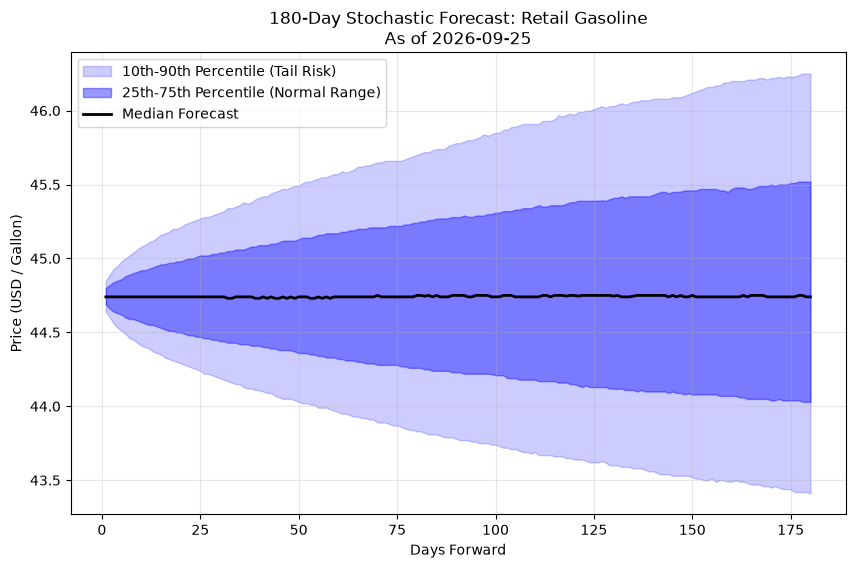
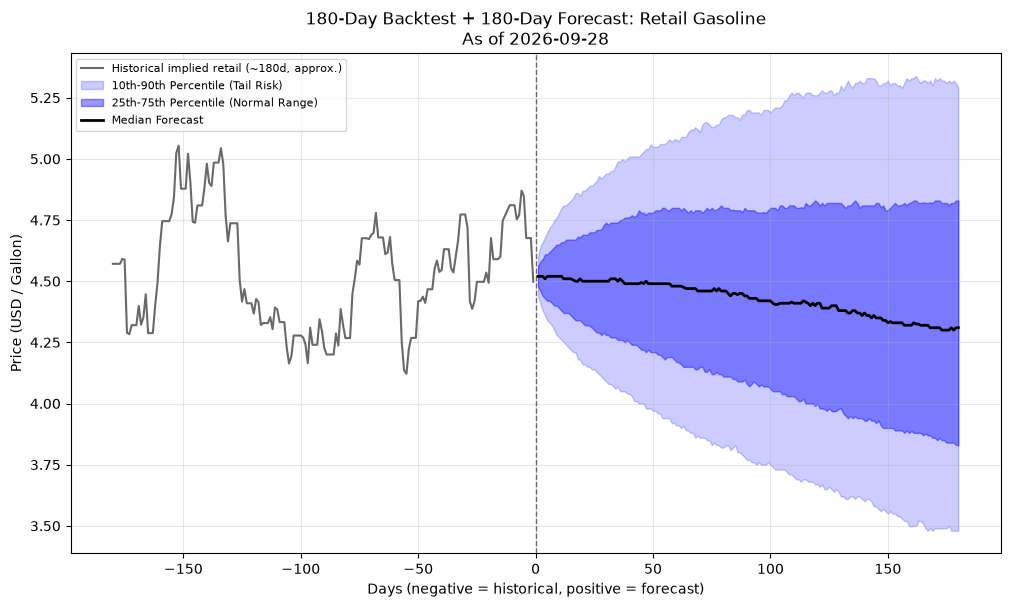
Add historical backtest overlay and scenario line styling
report_gen.py now overlays 180 days of historical implied retail price
(reconstructed from RB=F/HO=F futures) before the forecast, giving a
continuous 360-day view. scenario_report.py alternates solid/dotted
lines per scenario so adjacent colors in the legend stay distinguishable.
Regenerated tracked outputs from a fresh calibrate.py run.

diff --git a/report_gen.py b/report_gen.py
@@ -1,32 +1,100 @@
+import json
 import os
 from datetime import date
 
 import matplotlib.pyplot as plt
 import numpy as np
 import pandas as pd
+import yfinance as yf
+
+from calibrate import _get_price_frame
+
+PARAMS_FILE = "params_macro.json"
+BACKTEST_DAYS = 180
+
+# Mirrors simulate.go's tax/distribution constants - keep in sync if those change.
+TAX_GAS = 0.57
+DIST_GAS = 0.65
+TAX_DIESEL = 0.65
+DIST_DIESEL = 0.85
 
 
-def generate_chart(commodity, filename, color_base):
+def load_freight_assumptions():
+    if not os.path.exists(PARAMS_FILE):
+        return None
+    with open(PARAMS_FILE) as f:
+        params = json.load(f)
+    return params.get("freight_0", 0.0), params.get("shipping_cost_0", 0.0)
+
+
+def fetch_historical_implied_retail(days=BACKTEST_DAYS):
+    """Reconstructs an approximate historical retail price from RBOB gasoline
+    and heating-oil futures closes (which already price in crude + crack
+    spread), holding today's freight/shipping assumptions constant since no
+    historical freight series is available. Returns None on any failure -
+    missing params, no internet, empty data - so the forecast chart can still
+    render without the backtest overlay.
+    """
+    freight_shipping = load_freight_assumptions()
+    if freight_shipping is None:
+        print("Skipping historical backtest overlay: params_macro.json not found.")
+        return None
+    freight_0, shipping_cost_0 = freight_shipping
+    try:
+        raw = yf.download(["RB=F", "HO=F"], period=f"{days + 30}d", progress=False)
+        if raw.empty:
+            raise ValueError("no market data returned")
+        data = _get_price_frame(raw).dropna()
+        if data.empty:
+            raise ValueError("no usable rows after cleaning")
+        full_range = pd.date_range(end=data.index.max(), periods=days, freq="D")
+        data = data.reindex(data.index.union(full_range)).sort_index().ffill().reindex(full_range)
+        if data.isna().any().any():
+            raise ValueError("insufficient history to cover the requested backtest window")
+        freight_gal = freight_0 / 42.0
+        shipping_gal = shipping_cost_0 / 42.0
+        gas = (data["RB=F"] + freight_gal + shipping_gal + TAX_GAS + DIST_GAS).to_numpy()
+        diesel = (data["HO=F"] + freight_gal + shipping_gal + TAX_DIESEL + DIST_DIESEL).to_numpy()
+        return gas, diesel
+    except Exception as exc:
+        print(f"Skipping historical backtest overlay ({exc}).")
+        return None
+
+
+def generate_chart(commodity, filename, color_base, historical):
     print(f"Generating chart for {commodity}...")
     as_of = date.today().strftime("%Y-%m-%d")
     df = pd.read_csv(filename, header=None).astype(float)
 
-    days = np.arange(1, df.shape[1] + 1)
+    forward_days = np.arange(1, df.shape[1] + 1)
     p10 = df.quantile(0.10, axis=0)
     p25 = df.quantile(0.25, axis=0)
     p50 = df.quantile(0.50, axis=0)
     p75 = df.quantile(0.75, axis=0)
     p90 = df.quantile(0.90, axis=0)
 
-    fig, ax = plt.subplots(figsize=(10, 6))
-    ax.fill_between(days, p10, p90, color=color_base, alpha=0.2, label="10th-90th Percentile (Tail Risk)")
-    ax.fill_between(days, p25, p75, color=color_base, alpha=0.4, label="25th-75th Percentile (Normal Range)")
-    ax.plot(days, p50, color="black", linewidth=2, label="Median Forecast")
+    fig, ax = plt.subplots(figsize=(12, 6.5))
 
-    ax.set_title(f"180-Day Stochastic Forecast: Retail {commodity}\nAs of {as_of}")
-    ax.set_xlabel("Days Forward")
+    if historical is not None:
+        hist_days = np.arange(-len(historical), 0)
+        ax.plot(hist_days, historical, color="dimgray", linewidth=1.5,
+                 label=f"Historical implied retail (~{len(historical)}d, approx.)")
+        ax.axvline(0, color="dimgray", linewidth=1, linestyle="--")
+
+    ax.fill_between(forward_days, p10, p90, color=color_base, alpha=0.2, label="10th-90th Percentile (Tail Risk)")
+    ax.fill_between(forward_days, p25, p75, color=color_base, alpha=0.4, label="25th-75th Percentile (Normal Range)")
+    ax.plot(forward_days, p50, color="black", linewidth=2, label="Median Forecast")
+
+    if historical is not None:
+        title = f"{BACKTEST_DAYS}-Day Backtest + 180-Day Forecast: Retail {commodity}"
+        xlabel = "Days (negative = historical, positive = forecast)"
+    else:
+        title = f"180-Day Stochastic Forecast: Retail {commodity}"
+        xlabel = "Days Forward"
+    ax.set_title(f"{title}\nAs of {as_of}")
+    ax.set_xlabel(xlabel)
     ax.set_ylabel("Price (USD / Gallon)")
-    ax.legend(loc="upper left")
+    ax.legend(loc="upper left", fontsize=8)
     ax.grid(True, alpha=0.3)
 
     out_file = f"{commodity.lower()}_forecast.png"
@@ -38,5 +106,7 @@ def generate_chart(commodity, filename, color_base):
 if __name__ == "__main__":
     gas_file = "results_macro_gas.csv" if os.path.exists("results_macro_gas.csv") else "results_gas.csv"
     diesel_file = "results_macro_diesel.csv" if os.path.exists("results_macro_diesel.csv") else "results_diesel.csv"
-    generate_chart("Gasoline", gas_file, "blue")
-    generate_chart("Diesel", diesel_file, "red")
+    historical = fetch_historical_implied_retail()
+    hist_gas, hist_diesel = historical if historical is not None else (None, None)
+    generate_chart("Gasoline", gas_file, "blue", hist_gas)
+    generate_chart("Diesel", diesel_file, "red", hist_diesel)

diff --git a/scenario_report.py b/scenario_report.py
@@ -225,7 +225,8 @@ def plot_scenario_paths(scenarios, bands_by_id, commodity, out_file):
     for i, scenario in enumerate(scenarios):
         bands = bands_by_id[scenario["id"]]
         color = PALETTE[i % len(PALETTE)]
-        ax.plot(days, bands["p50"], color=color, linewidth=2, label=scenario["label"])
+        linestyle = "-" if i % 2 == 0 else ":"  # alternate solid/dotted so adjacent colors stay distinguishable
+        ax.plot(days, bands["p50"], color=color, linewidth=2, linestyle=linestyle, label=scenario["label"])
 
     ax.set_title(f"180-Day Scenario Outlook: Retail {commodity}", color=INK,
                  fontsize=14, fontweight="bold", loc="left")

diff --git a/oil_market_outlook.md b/oil_market_outlook.md
@@ -1,35 +1,35 @@
 # Oil & Fuels Market Outlook - Scenario Analysis
-*As of 2026-09-25 | 2,000-path Monte Carlo, 180-day horizon*
+*As of 2026-09-28 | 2,000-path Monte Carlo, 180-day horizon*
 
 **Compare against today's actual retail price:** [AAA National Average Gas Prices](https://gasprices.aaa.com/). This model projects a *medium-term path* for the crude-to-pump price chain, not today's station price, so some gap is expected — but if the gap looks large, check the "Calibration inputs" line under Methodology first: the model is only as current as the last `calibrate.py` run.
 
 ## Executive Summary
 
-Under current calibrated conditions, the model's base-case median retail gasoline price reaches **$3.50/gal** 180 days out (10th-90th percentile range $2.80-$4.28). Across the six stress scenarios modeled below, the most bullish case is **Combined Shock: Hormuz Closure + Saudi Cut**, which pushes the day-180 median to $4.74/gal (+35.4% vs. base), while **Iran Sanctions Lifted** offers the most relief, at $3.26/gal (-6.9% vs. base).
+Under current calibrated conditions, the model's base-case median retail gasoline price reaches **$4.37/gal** 180 days out (10th-90th percentile range $3.52-$5.44). Across the six stress scenarios modeled below, the most bullish case is **Combined Shock: Hormuz Closure + Saudi Cut**, which pushes the day-180 median to $5.52/gal (+26.3% vs. base), while **Iran Sanctions Lifted** offers the most relief, at $4.07/gal (-6.9% vs. base).
 
 ## Scenario Summary Table (Gasoline)
 
 | Scenario | Day 30 | Day 90 | Day 180 | Day 180 10th-90th pct. | vs. Base |
 |---|---|---|---|---|---|
-| Base Case | $3.55 | $3.54 | $3.50 | $2.80-$4.28 | - |
-| Hormuz Closure | $4.72 | $4.69 | $4.62 | $3.54-$6.17 | +32.0% |
-| Hormuz De-Risked | $3.55 | $3.53 | $3.50 | $2.84-$4.20 | +0.0% |
-| Saudi Production -20% | $3.74 | $3.71 | $3.67 | $2.93-$4.51 | +4.9% |
-| Iran Sanctions Lifted | $3.31 | $3.30 | $3.26 | $2.61-$4.02 | -6.9% |
-| US Shale Surge | $3.44 | $3.43 | $3.40 | $2.71-$4.15 | -2.9% |
-| Combined Shock: Hormuz Closure + Saudi Cut | $4.91 | $4.86 | $4.74 | $3.60-$6.32 | +35.4% |
+| Base Case | $4.51 | $4.46 | $4.37 | $3.52-$5.44 | - |
+| Hormuz Closure | $5.96 | $5.81 | $5.41 | $4.07-$7.59 | +23.8% |
+| Hormuz De-Risked | $4.50 | $4.41 | $4.29 | $3.51-$5.22 | -1.8% |
+| Saudi Production -20% | $4.72 | $4.64 | $4.48 | $3.57-$5.68 | +2.5% |
+| Iran Sanctions Lifted | $4.20 | $4.15 | $4.07 | $3.29-$5.11 | -6.9% |
+| US Shale Surge | $4.36 | $4.29 | $4.19 | $3.37-$5.18 | -4.1% |
+| Combined Shock: Hormuz Closure + Saudi Cut | $6.19 | $5.99 | $5.52 | $4.02-$7.86 | +26.3% |
 
 ## Scenario Summary Table (Diesel, Day 180 median)
 
 | Scenario | Day 180 Diesel |
 |---|---|
-| Base Case | $3.95 |
-| Hormuz Closure | $5.06 |
-| Hormuz De-Risked | $3.94 |
-| Saudi Production -20% | $4.11 |
-| Iran Sanctions Lifted | $3.70 |
-| US Shale Surge | $3.84 |
-| Combined Shock: Hormuz Closure + Saudi Cut | $5.18 |
+| Base Case | $6.05 |
+| Hormuz Closure | $7.11 |
+| Hormuz De-Risked | $6.03 |
+| Saudi Production -20% | $6.19 |
+| Iran Sanctions Lifted | $5.81 |
+| US Shale Surge | $5.91 |
+| Combined Shock: Hormuz Closure + Saudi Cut | $7.22 |
 
 ## Scenario Detail
 
@@ -37,43 +37,43 @@ Under current calibrated conditions, the model's base-case median retail gasolin
 
 Current calibrated market conditions; no policy or geopolitical shock applied.
 
-Day-180 median: **$3.50/gal** gasoline (base case), $3.95/gal diesel.
+Day-180 median: **$4.37/gal** gasoline (base case), $6.05/gal diesel.
 
 ### Hormuz Closure
 
 Strait of Hormuz effectively shut: roughly 55% of its normal throughput is assumed offline, chokepoint disruption frequency quadruples, and the war-risk shipping premium triples.
 
-Day-180 median: **$4.62/gal** gasoline (+32.0% vs. base), $5.06/gal diesel.
+Day-180 median: **$5.41/gal** gasoline (+23.8% vs. base), $7.11/gal diesel.
 
 ### Hormuz De-Risked
 
 Geopolitical tension around the strait fully unwinds: disruption frequency falls to a fifth of baseline and the war-risk premium halves, with no direct change to physical supply.
 
-Day-180 median: **$3.50/gal** gasoline (+0.0% vs. base), $3.94/gal diesel.
+Day-180 median: **$4.29/gal** gasoline (-1.8% vs. base), $6.03/gal diesel.
 
 ### Saudi Production -20%
 
 Saudi Arabia cuts output and spare capacity by 20%, e.g. an OPEC+ supply-discipline shock.
 
-Day-180 median: **$3.67/gal** gasoline (+4.9% vs. base), $4.11/gal diesel.
+Day-180 median: **$4.48/gal** gasoline (+2.5% vs. base), $6.19/gal diesel.
 
 ### Iran Sanctions Lifted
 
 Sanctions are lifted, letting Iranian output ramp toward a materially higher production ceiling.
 
-Day-180 median: **$3.26/gal** gasoline (-6.9% vs. base), $3.70/gal diesel.
+Day-180 median: **$4.07/gal** gasoline (-6.9% vs. base), $5.81/gal diesel.
 
 ### US Shale Surge
 
 US shale operators ramp drilling activity, lifting both current output and spare capacity.
 
-Day-180 median: **$3.40/gal** gasoline (-2.9% vs. base), $3.84/gal diesel.
+Day-180 median: **$4.19/gal** gasoline (-4.1% vs. base), $5.91/gal diesel.
 
 ### Combined Shock: Hormuz Closure + Saudi Cut
 
 A simultaneous Hormuz closure and 20% Saudi production cut - a tail-risk stack of the two largest supply-side scenarios.
 
-Day-180 median: **$4.74/gal** gasoline (+35.4% vs. base), $5.18/gal diesel.
+Day-180 median: **$5.52/gal** gasoline (+26.3% vs. base), $7.22/gal diesel.
 
 ## Charts
 
@@ -87,4 +87,4 @@ Day-180 median: **$4.74/gal** gasoline (+35.4% vs. base), $5.18/gal diesel.
 
 Each scenario re-runs the full 2,000-path stochastic simulation (`simulate.go`) with a modified set of inputs. Chokepoint scenarios (Hormuz closure/de-risking) adjust the model's existing disruption frequency and shipping-risk mechanics directly. Production scenarios additionally apply a first-order crude price shock: each 1% of global supply added or removed is assumed to move crude price 6% in the opposite direction (a simplifying short-run elasticity assumption, not a fitted econometric estimate), with volatility scaled up in proportion to shock size so tail scenarios carry wider, not just higher or lower, confidence bands. This is a model output for illustrative what-if analysis, not investment advice.
 
-**Calibration inputs:** last calibrated on **unknown** by `calibrate.py` from live NYMEX crude/gasoline/diesel futures (`yfinance`). If that date is stale, or reads "unknown" (no `date_calibrated` field), the base case below reflects old or placeholder inputs rather than today's market — re-run `python calibrate.py` before trusting the baseline.
+**Calibration inputs:** last calibrated on **2026-09-28** by `calibrate.py` from live NYMEX crude/gasoline/diesel futures (`yfinance`). If that date is stale, or reads "unknown" (no `date_calibrated` field), the base case below reflects old or placeholder inputs rather than today's market — re-run `python calibrate.py` before trusting the baseline.

diff --git a/README.md b/README.md
@@ -15,7 +15,11 @@ simulations, and generates forecast charts for retail gasoline and diesel.
   freight risk, and seasonal refinery margin effects.
 - `report_gen.py` reads the simulation CSVs and creates percentile-band charts:
   `gasoline_forecast.png` and `diesel_forecast.png` with the date stamped in the
-  title.
+  title. Each chart also overlays a 180-day historical backtest before day 0,
+  reconstructed from RBOB gasoline and heating-oil futures closes, so the
+  forecast reads as a continuous 360-day window (180 back, 180 forward). This
+  requires internet access the same as `calibrate.py`; if the historical fetch
+  fails for any reason, the chart still renders with just the forecast half.
 - `run_pipeline.bat` runs calibration, builds and runs the Go simulation,
   generates both charts, and refreshes the scenario what-if report. It stops
   if any step fails.
@@ -253,8 +257,9 @@ After a successful run, the repository contains:
 
 ![Diesel forecast prediction](diesel_forecast.png)
 
-These generated files are ignored by Git. Keep them locally or publish them to
-the reporting location used by your operations process.
+`gasoline_forecast.png` and `diesel_forecast.png` are tracked in Git (for the
+README embeds above); the CSV/JSON data files are ignored. Keep those locally
+or publish them to the reporting location used by your operations process.
 
 ### Scenario / What-If Report
 
@@ -269,7 +274,9 @@ tail-risk case:
   per-scenario breakdown, and a methodology section describing the
   elasticity assumption used to size production shocks.
 - `scenario_gasoline_paths.png` / `scenario_diesel_paths.png`: median price
-  paths per scenario over the base case's percentile bands.
+  paths per scenario over the base case's percentile bands. Adjacent
+  scenarios alternate solid and dotted lines (in addition to color) so
+  similarly-colored series stay distinguishable.
 - `scenario_day180_ranking.png`: a day-180 median price ranking across
   scenarios.
 
